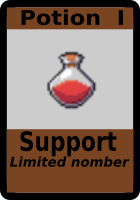
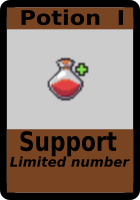
ajout cartes

Changed region(s): [[0.3143, 0.24, 0.6857, 0.57], [0.5714, 0.78, 0.8286, 0.84], [0.8571, 0.78, 0.9143, 0.84]]

diff --git a/projet_Roguelike_true/Src/fonctions.c b/projet_Roguelike_true/Src/fonctions.c
@@ -12,7 +12,7 @@
 #include "../include/fonctions.h"
 
 // Tables de cartes préfaites
-char communes[][TAILLE] = {{"soin"},{"poing"},{"caillou"}};
+char communes[][TAILLE] = {{"soin"},{"poing"},{"pierre"}};
 char peu_communes[][TAILLE] = {{"potion"},{"barrière"},{"épée"}};
 char rares[][TAILLE] = {{"boule de feu"},{"poison"},{"guérison"}};
 
@@ -406,17 +406,17 @@ carte_t * generer_carte(int niveau){
       case 0:
 				strcpy(nom, communes[i]);
 				strncat(nom, puissances[puissance], 3);
-        return(creer_carte(nom, DEFENSE, 0, -1, ""));
+        return(creer_carte(nom, DEFENSE, 0, -1, CARTE_SOIN_PATH));
         break;
       case 1:
 				strcpy(nom, communes[i]);
 				strncat(nom, puissances[puissance], 3);
-        return(creer_carte(nom,ATTAQUE,0,-1, ""));
+        return(creer_carte(nom,ATTAQUE,0,-1, CARTE_POING_PATH));
         break;
       case 2:
 				strcpy(nom, communes[i]);
 				strncat(nom, puissances[puissance], 3);
-        return(creer_carte(nom,ATTAQUE,0,10, ""));
+        return(creer_carte(nom,ATTAQUE,0,10, CARTE_PIERRE_PATH));
         break;
     }
   }
@@ -427,17 +427,17 @@ carte_t * generer_carte(int niveau){
       case 0:
 				strcpy(nom, peu_communes[i]);
 				strncat(nom, puissances[puissance], 3);
-        return(creer_carte(nom,DEFENSE,0,3, ""));
+        return(creer_carte(nom,DEFENSE,0,3, CARTE_POTION_I_PATH));
         break;
       case 1:
 				strcpy(nom, peu_communes[i]);
 				strncat(nom, puissances[puissance], 3);
-        return(creer_carte(nom,DEFENSE,0,-1, ""));
+        return(creer_carte(nom,DEFENSE,0,-1, CARTE_BARRIERE_PATH));
         break;
       case 2:
 				strcpy(nom, peu_communes[i]);
 				strncat(nom, puissances[puissance], 3);
-        return(creer_carte(nom,ATTAQUE,0,-1, ""));
+        return(creer_carte(nom,ATTAQUE,0,-1, CARTE_EPEE_I_PATH));
         break;
     }
   }
@@ -448,17 +448,17 @@ carte_t * generer_carte(int niveau){
       case 0:
 				strcpy(nom, rares[i]);
 				strncat(nom, puissances[puissance], 3);
-        return(creer_carte(nom,ATTAQUE,0,-1, ""));
+        return(creer_carte(nom,ATTAQUE,0,-1, CARTE_B_DE_FEU_PATH));
         break;
       case 1:
 				strcpy(nom, rares[i]);
 				strncat(nom, puissances[puissance], 3);
-        return(creer_carte(nom,ATTAQUE,0,2, ""));
+        return(creer_carte(nom,ATTAQUE,0,2, CARTE_POISON_PATH));
         break;
       case 2:
 				strcpy(nom, rares[i]);
 				strncat(nom, puissances[puissance], 3);
-        return(creer_carte(nom,DEFENSE,0,2, ""));
+        return(creer_carte(nom,DEFENSE,0,2, CARTE_GUERISON_PATH));
         break;
     }
   }

diff --git a/projet_Roguelike_true/include/constantes.h b/projet_Roguelike_true/include/constantes.h
@@ -66,10 +66,16 @@
 #define FOND_COMBAT_PATH "../Images/combat2.png"
 #define GUI_COMBAT_PATH "../Images/GUI_bar.png"
 
+#define CARTE_GUERISON_PATH "../Images/Cartes/guerison.png"
+#define CARTE_SOIN_PATH "../Images/Cartes/soin.png"
 #define CARTE_EPEE_I_PATH "../Images/Cartes/epee_1.png"
 #define CARTE_POTION_I_PATH "../Images/Cartes/potion_1.png"
 #define CARTE_POING_PATH "../Images/Cartes/poing.png"
 #define CARTE_PIERRE_PATH "../Images/Cartes/pierre.png"
+
+#define CARTE_B_DE_FEU_PATH "../Images/Cartes/boule_de_feu.png"
+#define CARTE_POISON_PATH "../Images/Cartes/poison.png"
+#define CARTE_BARRIERE_PATH "../Images/Cartes/barriere.png"
 
 #define SAVE_PERSO_PATH "../Sauvegarde/personnage.txt"
 #define SAVE_CARTES_PATH "../Sauvegarde/cartes.txt"

diff --git a/projet_Roguelike_true/Src/labyrinthe.c b/projet_Roguelike_true/Src/labyrinthe.c
@@ -756,6 +756,10 @@ void boucle_labyrinthe(int *continuer, int *etat, SDL_Renderer *rendu, Mix_Chunk
 	for(int i = sol; i < fond; i++)
 		SDL_DestroyTexture(images[i].img);
 
+	if(loot.existe){
+		SDL_DestroyTexture(loot.texte.img);
+	}
+
 	destruction_tous_ennemis(salles, taille);
 	destruction_des_coffres(salles, taille);
 }

diff --git a/projet_Roguelike_true/Src/main.c b/projet_Roguelike_true/Src/main.c
@@ -133,6 +133,19 @@ int main(int argc, char* args[]){
 	//On libère toutes les variables de son
 	free_mixer(musics, sounds);
 
+
+	choix_liste(DECK);
+
+	en_tete();
+
+	while(!liste_vide()){
+		oter_elt();
+		suivant();
+	}
+	free(drapeau);
+
+	choix_liste(COLLEC);
+
 	en_tete();
 
 	while(!liste_vide()){
